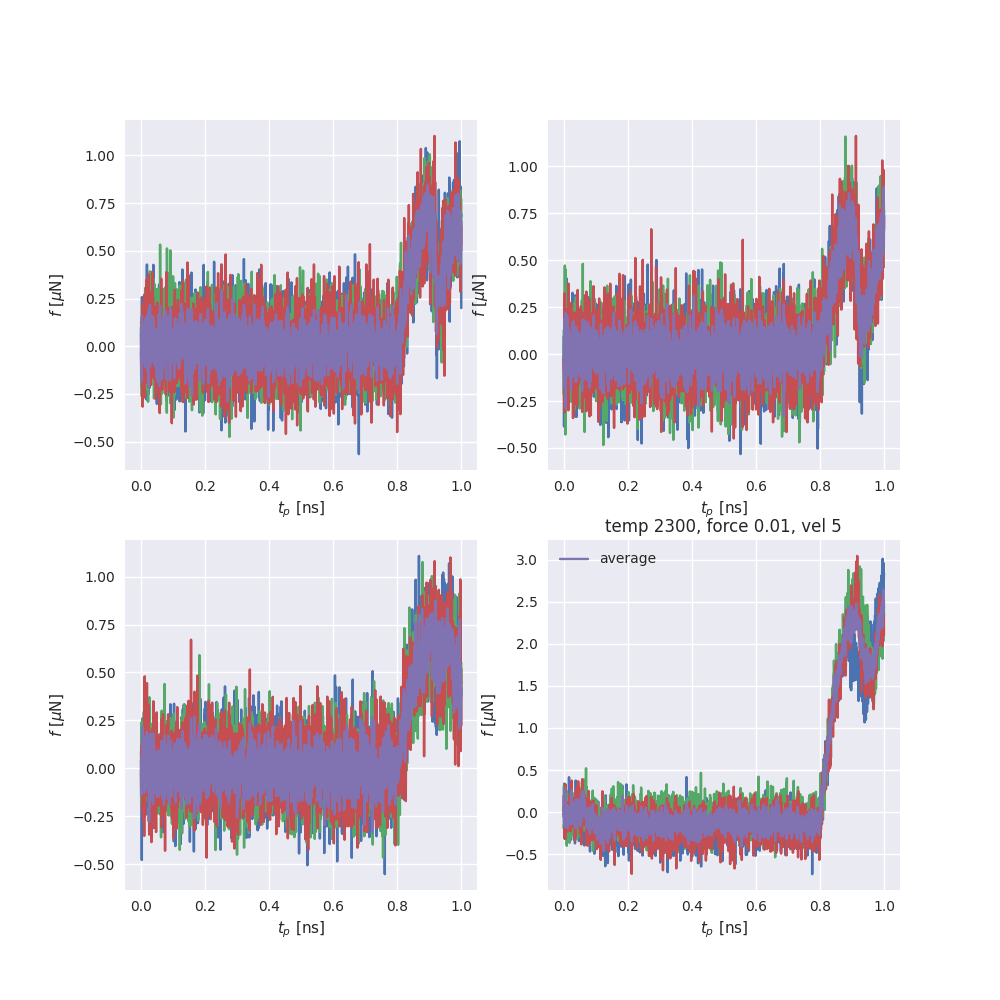
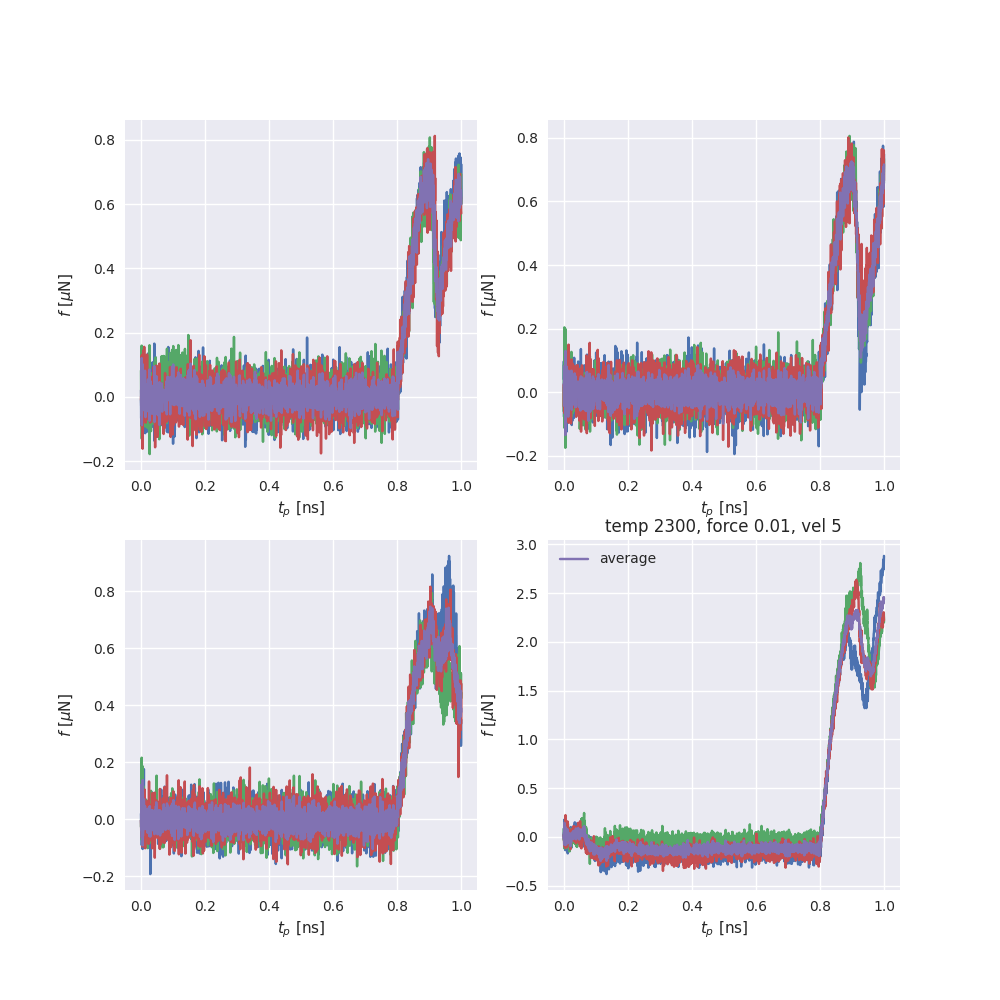
window now 300

diff --git a/python/post/get_load_curves.py b/python/post/get_load_curves.py
@@ -89,4 +89,4 @@ if __name__ == '__main__':
             seed = matches[-3]
             outfile_lc = f'../../txt/load_curves/production/load_curves_temp{temp}_vel{vel}_force{force}_asp{asperities}_initnum{initnum}_seed{seed}_errgrid4_4.txt'
             outfile_ms = f'../../txt/max_static/production/max_static_temp{temp}_vel{vel}_force{force}_asp{asperities}_initnum{initnum}_seed{seed}_errgrid4_4.txt'
-            extract_load_curves(logfile, None, 0, window = 30, outfile_load_curves = outfile_lc, outfile_max_static = outfile_ms)
+            extract_load_curves(logfile, None, 0, window = 300, outfile_load_curves = outfile_lc, outfile_max_static = outfile_ms)
